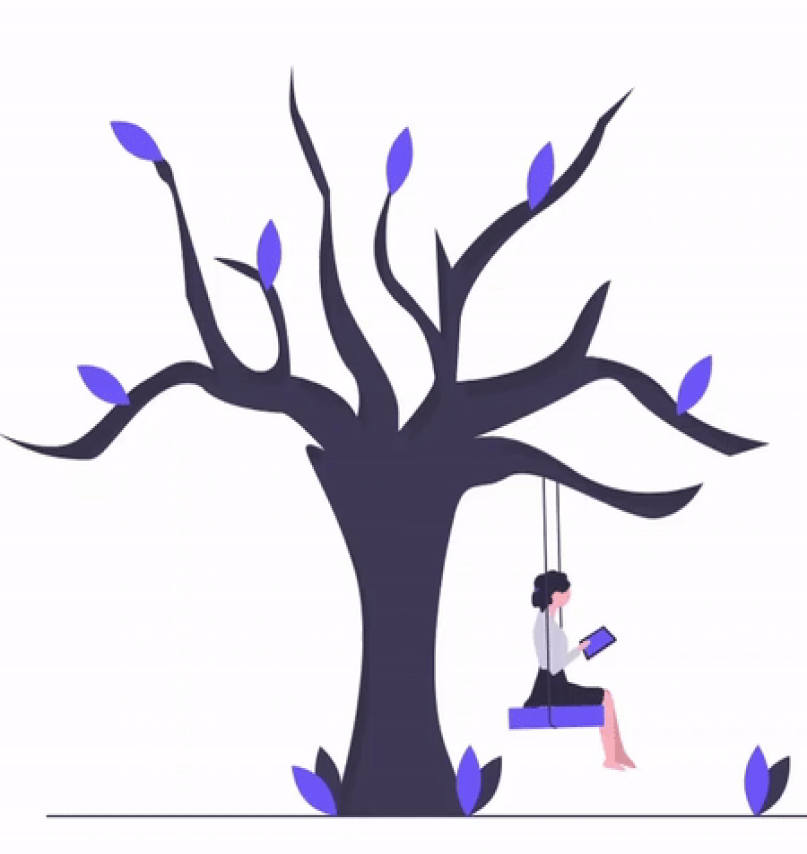
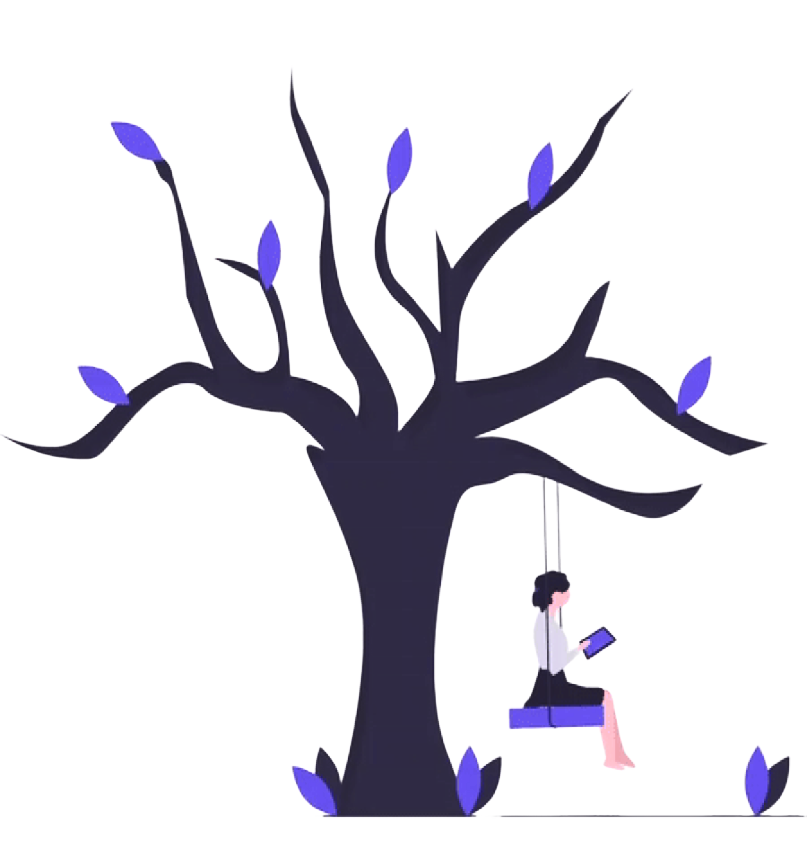
download section

diff --git a/html/home.html b/html/home.html
@@ -23,7 +23,35 @@
 
   <!-- this is the container of all the main contents of the website -->
   <div id="main-content">
+    <div id="content-primary">
+      <div id="download-section">
+        <p id="text-game-title">Imaginary Friends</p>
+        <p id="text-ads">
+          You are the child in this supernatural visual novel. 
+          You must survive and keep your sanity and happiness. 
+          For you to keep it, you must talk and befriend your new imaginary friends. 
+          But, be warned, not everything is what it seems. 
+          Now, can you survive and keep your sanity and happiness? Will you make the right choices and have a happy ending? Download the game now to find out!
+        </p>
+        <a href="../assets/com.springstudios.imaginaryfriends-release.apk" id="button-download">
+          <img src="../assets/svg/icon_download.svg" alt="dowload icon">
+          <p>Download APK</p>
+        </a>
+      </div>
+      <img src="../assets/images/tree swing.png" alt="tree with swing" id="img-tree">
+    </div>
 
+    <div id="content-plot">
+      <p class="content-labels">Plot</p>
+      <div id="text-plot">
+        <p>
+          The protagonist, an 8-year-old child, just moved into their new house. 
+          The child suffers from a verbally abusive mother and a neglectful father, living with many pains, anxiety, and depression. 
+          Suffering from many hardships at a young age, the child’s sanity and happiness is at risk. 
+          Thankfully though, the child met many imaginary friends that will help the child be happier and sane, but be careful, not everything is what it seems.
+        </p>
+      </div>
+    </div>
   </div>
 
   <!-- the footer tag includes all the contents of the footer-->

diff --git a/css/home.css b/css/home.css
@@ -1,0 +1,93 @@
+@media screen and (min-width: 721px) {
+    :root {
+    }
+}
+
+@media screen and (max-width: 900px) {
+    :root {
+    }
+}
+
+@media screen and (max-width: 720px) {
+    :root {
+    }
+}
+
+@media screen and (max-width: 480px) {
+    :root {
+    }
+}
+
+@media screen and (max-width: 360px) {
+    :root {
+    }
+}
+
+#content-primary {
+    display: flex;
+    align-items: center;
+    padding: 2rem;
+}
+
+#download-section {
+    margin-right: 1rem;
+}
+
+#text-game-title {
+    font: 3rem "Giffy";
+    margin: 0;
+    text-align: center;
+}
+
+#text-ads {
+    text-align: justify;
+}
+
+#img-tree {
+    width: 45rem;
+    height: 45rem;
+}
+
+#button-download {
+    display: flex;
+    align-items: center;
+    justify-content: center;
+    background-color: var(--blue-violet);
+    width: fit-content;
+    margin: auto;
+    padding: 0.5rem 1.5rem;
+    border-radius: 15px;
+    box-shadow: 0px 4px 4px 0px rgba(0, 0, 0, 0.25);
+    color: white;
+}
+
+#button-download img {
+    width: 1.5rem;
+    height: 1.5rem;
+    margin-right: 1rem;
+}
+
+#button-download p {
+    font-size: larger;
+}
+
+#button-download:active {
+    background-color: var(--russian-violet);
+    box-shadow: 0px 4px 4px 4px rgba(0, 0, 0, 0.25);
+}
+
+.content-labels {
+    text-align: center;
+    font: xx-large "Giffy";
+}
+
+#content-plot {
+    margin: 3rem 2rem;
+}
+
+#text-plot {
+    text-align: center;
+    background-image: var(--purple-gradient);
+    padding: 2rem 5rem;
+    border-radius: 30px;
+}

diff --git a/css/general.css b/css/general.css
@@ -109,6 +109,9 @@ ul, ol, li {
 /* ************************************************************************************************** */
 /* For Header */
 header {
+    position: fixed;
+    top: 0;
+    width: 100%;
     display: flex;
     align-items: center;
     justify-content: space-between;
@@ -198,5 +201,8 @@ footer div, footer nav {
 /* For Main Content */
 #main-content {
     margin: 1rem;
+    padding-top: 5rem;
     min-height: 100vh;
+    display: grid;
+    justify-content: center;
 }
